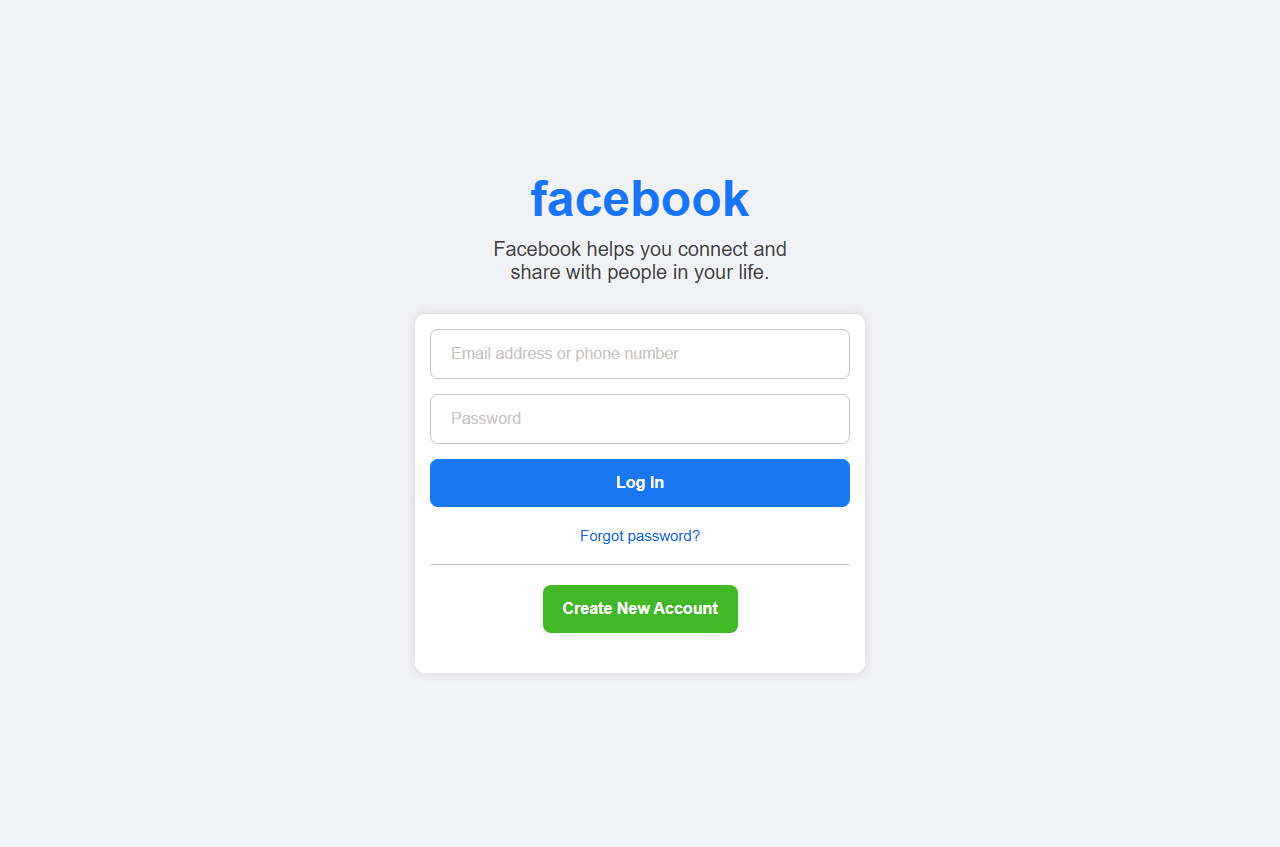
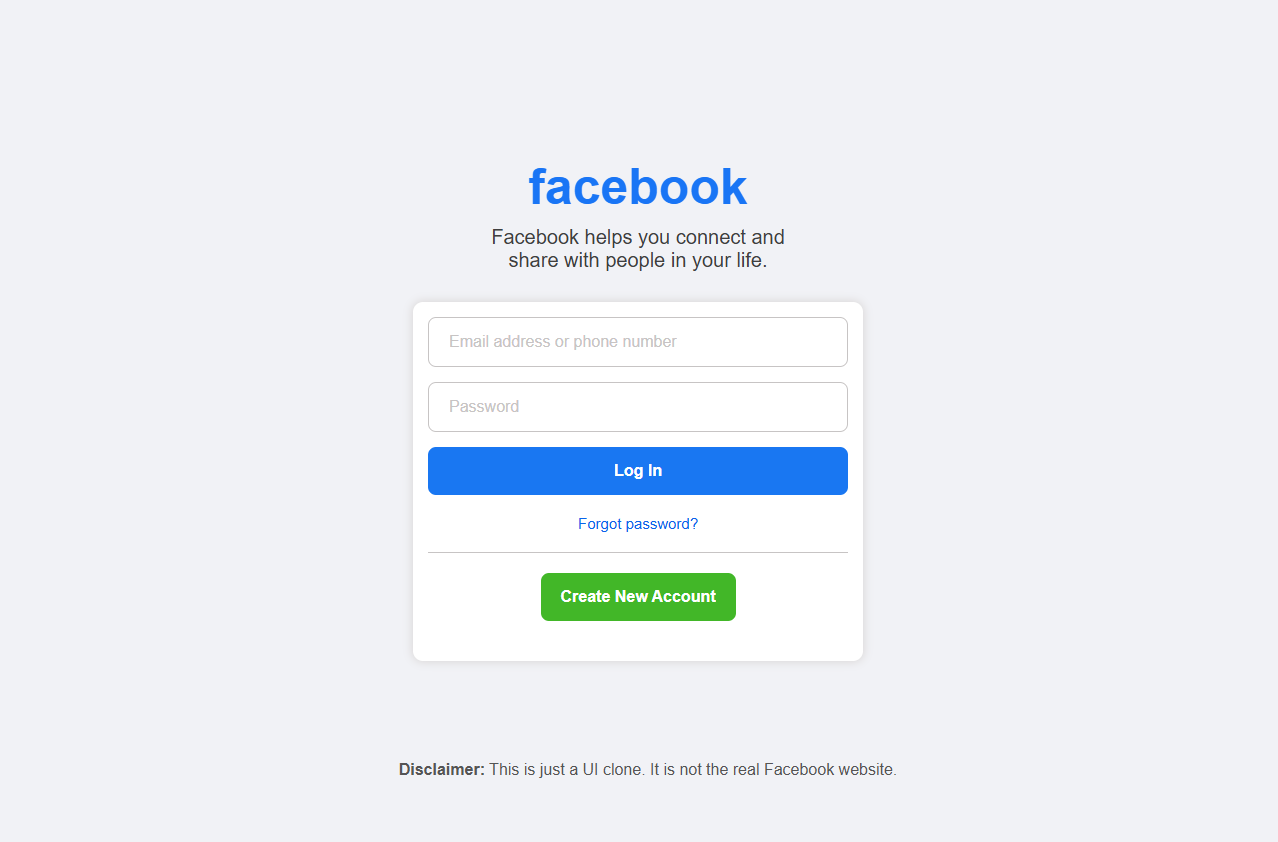
disclaimer added
The browser was giving a phishing attack (which is not) due to similarity with the original facebook login page. So, I added a disclaimer. Now it's working without error.

diff --git a/index.html b/index.html
@@ -6,7 +6,7 @@
     <meta name="viewport" content="width=device-width, initial-scale=1.0">
     <title>Log In to Facebook</title>
     <link rel="stylesheet" href="style.css">
-   
+
 </head>
 
 <body>
@@ -15,7 +15,9 @@
         <div class="top-text">
             <h1 class="FB-heading">facebook</h1>
 
-            <p class="FB-intro">Facebook helps you connect and <div class="intro2">share with people in your life.</div></p>
+            <p class="FB-intro">Facebook helps you connect and
+            <div class="intro2">share with people in your life.</div>
+            </p>
         </div>
 
         <div class="login-area">
@@ -28,6 +30,7 @@
                 </form>
 
                 <button class="login">Log In</button>
+
                 <a class="forget" href="#">Forgot password?</a>
 
             </div>
@@ -38,6 +41,10 @@
 
 
     </div>
+
+    <p class="disclaimer">
+        <span>Disclaimer:</span> This is just a UI clone. It is not the real Facebook website.
+    </p>
 
 </body>
 

diff --git a/style.css b/style.css
@@ -9,6 +9,7 @@ body {
     width: 100vw;
     height: 100vh;
     display: flex;
+    flex-direction: column;
     justify-content: center;
     align-items: center;
     background-color: #F1F2F6;
@@ -136,6 +137,19 @@ body {
     opacity: 0.9;
 }
 
+/* Disclaimer */
+.disclaimer {
+    color: rgb(85, 85, 85);
+    position: relative;
+    top: 100px;
+    left: 10px;
+    user-select: none;
+}
+.disclaimer span {
+    font-weight: 700;
+    font-size: 1rem;
+}
+
 /* for mobile */
 
 @media (max-width:450px) {
@@ -146,5 +160,8 @@ body {
     .FB-intro,
     .intro2 {
         font-size: 17px;
+    }
+    .disclaimer, .disclaimer span {
+        font-size: 0.9rem;
     }
 }
